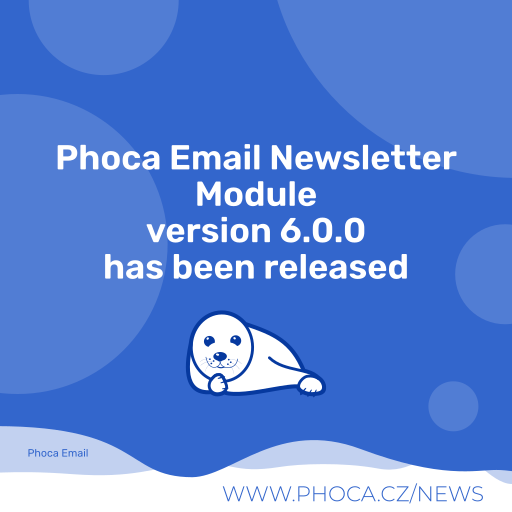
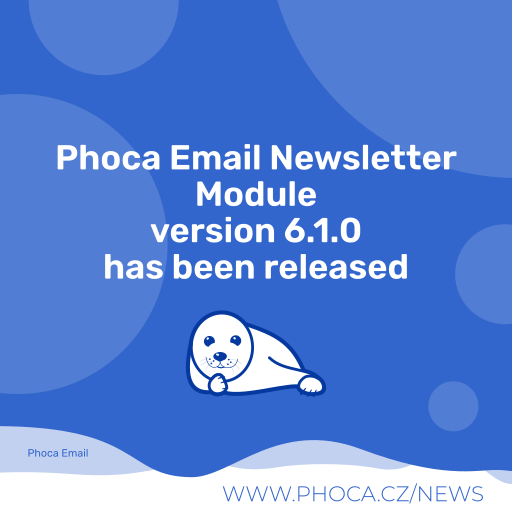
6.1.0

Changed region(s): [[0.2812, 0.4062, 0.7188, 0.5]]

diff --git a/README.MD b/README.MD
@@ -20,79 +20,68 @@ Our compliance with the principles of free and open-source software is establish
 
 *This repository is a shared community resource dedicated to the global open-source ecosystem.*
 
+### Community Feedback & Contributions
 
-## Project page
+We welcome your feedback and active involvement. You can join the development and follow the progress on public, independent GitHub pages at [https://github.com/PhocaCz](https://github.com/PhocaCz).
+Any feedback, bug reports, feature suggestions, or code improvements can be submitted transparently via **GitHub Issues** or **Pull Requests** within the respective repository.
 
-[Phoca Email Newsletter Module](https://www.phoca.cz/phoca-email-newsletter-module)
+### Accompanying External Resources
 
-[Phoca Email Info Page](https://www.phoca.cz/project/phocaemail-joomla-email)
+If you need additional information beyond this GitHub repository, further documentation, updates, and community channels are available on the following external websites:
 
+#### External Project Information
 
-
-## Documentation
-
-[Documentation](https://www.phoca.cz/documentation/category/120-phoca-email-newsletter-module)
-
-
-
-
-
-## Support
-
-[Phoca Forum](https://www.phoca.cz/forum)
-
-:bell: [Phoca Forum RSS](https://www.phoca.cz/forum/app.php/feed)
+- [Phoca Email Newsletter Module](https://www.phoca.cz/phoca-email-newsletter-module)
+- [Phoca Email Info Page](https://www.phoca.cz/project/phocaemail-joomla-email)
+- [Project is listed on Joomla Extensions Directory](https://extensions.joomla.org/)
+- [Project is listed on Phoca download directory](https://www.phoca.cz/download)
 
 
+#### External Documentation
 
-## News
-
-[Phoca News](https://www.phoca.cz/news)
-
-:bell: [Phoca News RSS](https://www.phoca.cz/news?format=feed&type=rss)
-
-:bell: [Phoca Latest Releases RSS](https://www.phoca.cz/download/feed/111?format=feed&type=rss)
+- [Documentation](https://www.phoca.cz/documentation/category/120-phoca-email-newsletter-module)
 
 
+#### External Community Support
 
-## Demo
+- [Phoca Forum](https://www.phoca.cz/forum)
+- [Joomla Forum](https://forum.joomla.org/)
+- [Joomlaportal.cz Forum - Czech](https://www.joomlaportal.cz/forum)
+- [Joomla.de Supportforum - German](https://forum.joomla.de/)
+- :bell: [Phoca Forum RSS](https://www.phoca.cz/forum/app.php/feed)
 
-[Phoca](https://www.phoca.cz)
+
+#### External News & Feeds
+
+- [Phoca News](https://www.phoca.cz/news)
+- [Joomlaportal.cz News](https://www.joomlaportal.cz/novinky)
+- :bell: [Phoca News RSS](https://www.phoca.cz/news?format=feed&type=rss)
+- :bell: [Phoca Latest Releases RSS](https://www.phoca.cz/download/feed/111?format=feed&type=rss)
 
 
+#### Demo
 
-## Version (Joomla! 3.x)
+- [Phoca](https://www.phoca.cz)
 
+### Version (Joomla! 3.x - no longer supported)
 3.1.0
-
-## Version (Joomla! 4.x)
-
+### Version (Joomla! 4.x - no longer supported)
 4.0.0
-
-## Version (Joomla! 5.x)
-
+### Version (Joomla! 5.x - no longer supported)
 5.1.1
+### Version (Joomla! 6.x)
+6.1.0
 
-
-
-## License
+### License
 
 GNU/GPL
 
-
-
 This project is open source project - feel free to contribute! Thank you.
 
-
-
-## Social Media
+### Social Media
 
 - [Phoca on Facebook](https://www.facebook.com/Phoca.cz)
-
 - [Phoca on X (Twitter)](https://twitter.com/PhocaCz)
-
 - [Phoca on YouTube](https://www.youtube.com/user/phocavideos)
-
 - [Phoca on GitHub](https://github.com/PhocaCz)
-
 - [Phoca on Reddit](https://www.reddit.com/user/PhocaCz)

diff --git a/FOSS.md b/FOSS.md
@@ -1,0 +1,13 @@
+Free and Open Source Software (FOSS) Declaration
+
+This project is developed, distributed, and maintained strictly as **Free and Open Source Software (FOSS)**. It is provided entirely outside the course of any commercial activity as an independent public resource.
+
+Our compliance with the principles of free and open-source software is established by the following structural and operational guidelines:
+
+* **Strictly Non-Commercial & Public Good:** This software is provided 100% free of charge. No commercial entities control or fund this repository, and there are no commercial monetization models, paid subscriptions, or premium paywalls associated with this codebase.
+* **Independent Volunteer Contributions:** The development, maintenance, and testing of this extension are driven entirely by independent, voluntary contributions from the global community.
+* **No Commercial Technical Support:** Technical support is not provided as a paid commercial service by the maintainers of this repository. Community assistance is available on a voluntary, non-binding basis via public forums.
+* **No Proprietary Lock-in:** The software is licensed under the copyleft GNU General Public License (GPL). You have absolute freedom to run, study, share, modify, and redistribute the code.
+* **Decentralized Infrastructure:** This codebase is hosted in a public, transparent repository on GitHub to foster open collaborative development and public peer review, ensuring safety and quality through community vigilance.
+
+*This repository is a shared community resource dedicated to the global open-source ecosystem.*
